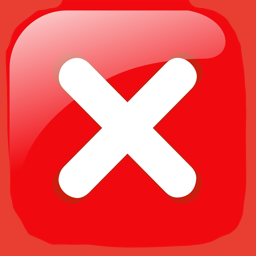
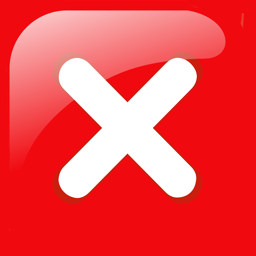
image border fix

Changed region(s): [[0.0, 0.0, 1.0, 1.0]]

diff --git a/src/App.css b/src/App.css
@@ -97,7 +97,7 @@ body {
   margin: 10px;
 
   /* rounder corners */
-  border-radius: 40px;
+  border-radius: 50px;
 }
 .TheBigRedButton:active {
   top: 3px;
